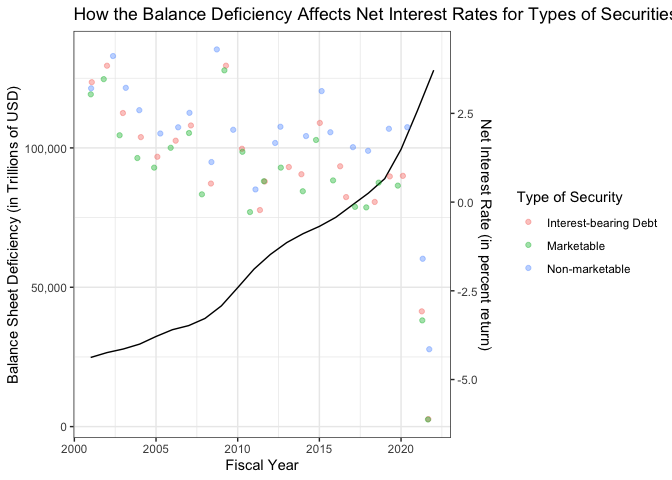
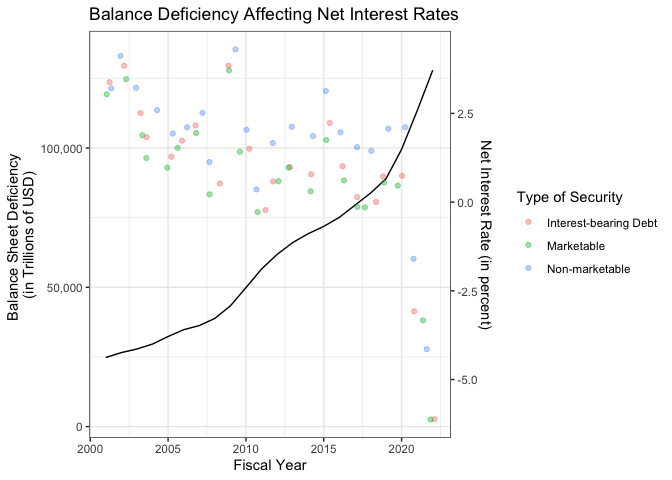
Materials for Project 2

diff --git a/README.md b/README.md
@@ -1360,11 +1360,11 @@ deficiencyAndRatesData %>%
              position = "jitter") +
   scale_y_continuous(
     labels = scales::comma,
-    name = "Balance Sheet Deficiency (in Trillions of USD)",
-    sec.axis = sec_axis(~ (. - a)/b, name="Net Interest Rate (in percent return)")
+    name = "Balance Sheet Deficiency \n(in Trillions of USD)",
+    sec.axis = sec_axis(~ (. - a)/b, name="Net Interest Rate (in percent)")
   ) +
   labs(color = "Type of Security",
-    title = "How the Balance Deficiency Affects Net Interest Rates for Types of Securities",
+    title = "Balance Deficiency Affecting Net Interest Rates",
     x = "Fiscal Year") +
   theme_bw()
 ```
@@ -1414,10 +1414,10 @@ p1 <- ggplot(df$`Interest-bearing Debt`, aes(x = record_calendar_year)) +
   scale_y_continuous(
     labels = scales::comma,
     name = "Balance Sheet Deficiency \n(in Trillions of USD)",
-    sec.axis = sec_axis(~ (. - a)/b, name="Net Interest Rate \n(in percent return)")
+    sec.axis = sec_axis(~ (. - a)/b, name="Net Interest Rate \n(in percent)")
   ) +
   labs(color = "individual Security",
-    title = "How the Balance Deficiency Affects Net Interest Rates for Individual Securities",
+    title = "Balance Deficiency Affecting Net Interest Rates",
     x = "Fiscal Year") +
   facet_wrap(vars(security_type_desc)) +
   theme_bw()
@@ -1466,7 +1466,7 @@ p1 <- ggplot(df$`Interest-bearing Debt`, aes(x = named_month)) +
              alpha = 0.3,
              position = "jitter") +
   labs(color = "individual Security",
-       title = "How the Net Interest Rate Varies by Month",
+       title = "Net Interest Rate Varying by Month",
        x = "Fiscal Year",
        y = "Net Interest Rate (in percent)") +
   facet_wrap(vars(security_type_desc)) +
